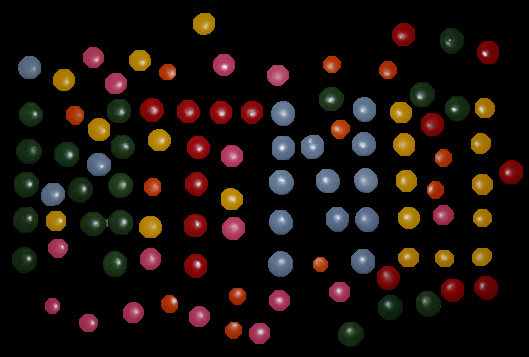
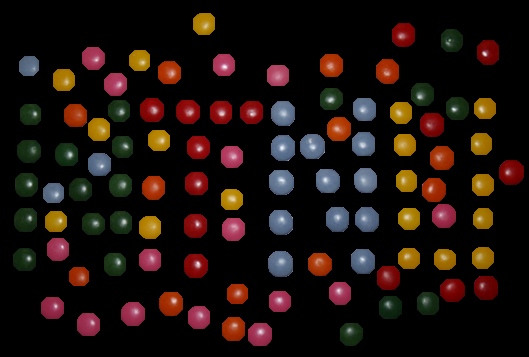
preprocessing finished. Todo: finish hough circle detection.

diff --git a/matlab/separateColors.m b/matlab/separateColors.m
@@ -7,6 +7,8 @@ redImg      = img(:, :, 1);
 greenImg    = img(:, :, 2);
 blueImg     = img(:, :, 3);
 
+[redImg, greenImg, blueImg] = normalizeColorValues(redImg,greenImg,blueImg);
+
 only_red = redImg - greenImg.*4;
 
 only_green = greenImg;
@@ -25,12 +27,23 @@ only_blue = only_blue - redImg;
 [max_blue, ~] = max(only_blue(:));
 only_blue = only_blue.*(1/max_blue);
 
+only_green = only_green > -0.4;
+only_blue = only_blue > -0.6;
+only_red = only_red > 0.42;
+
+ %only_blue   = medianFilter(only_blue, 4);
+ only_red    = medianFilter(only_red, 4);
+ only_green  = medianFilter(only_green, 4);
+
 only_yellow = redImg - blueImg;
 [max_yellow, ~] = max(only_yellow(:));
 only_yellow = only_yellow.*(1/max_yellow);
 only_yellow = only_yellow + greenImg;
 [max_yellow, ~] = max(only_yellow(:));
 only_yellow = only_yellow.*(1/max_yellow);
+
+only_yellow = only_yellow > 0.9;
+
 
 only_pink = redImg - greenImg;
 [max_pink, ~] = max(only_pink(:));
@@ -39,11 +52,9 @@ only_pink = only_pink + blueImg;
 [max_pink, ~] = max(only_pink(:));
 only_pink = only_pink.*(1/max_pink);
 
-only_green = only_green > 0.1;
-only_blue = only_blue > 0.18;
-only_red = only_red > 0.1;
-only_yellow = only_yellow > 0.8;
+
 only_pink = only_pink > 0.8;
+only_pink   = medianFilter(only_pink, 10);
 
 only_orange = redImg - blueImg;
 only_orange = only_orange - only_green;
@@ -52,13 +63,11 @@ only_orange = only_orange - only_yellow;
 only_orange = only_orange - only_red;
 only_orange = only_orange - only_pink;
 
-only_orange = only_orange > 0.54;
+only_orange = only_orange > 0.45;
 
-only_blue   = medianFilter(only_blue, 8);
-only_red    = medianFilter(only_red, 6);
-only_green  = medianFilter(only_green, 4);
-only_orange = medianFilter(only_orange, 14);
-only_pink   = medianFilter(only_pink, 10);
+
+only_orange = medianFilter(only_orange, 8);
+%only_yellow = medianFilter(only_yellow, 14);
 
 % weird
 
@@ -69,15 +78,17 @@ only_yellow = imfill(only_yellow,'holes');
 only_pink = imfill(only_pink,'holes');
 only_orange = imfill(only_orange,'holes');
 
-only_blue = only_blue & ~only_pink;
-only_pink = only_pink & ~only_red;
-
-only_red = openAndClose(only_red);
-only_green = openAndClose(only_green);
-only_blue = openAndClose(only_blue);
-only_yellow = openAndClose(only_yellow);
-only_pink = openAndClose(only_pink);
-only_orange = openAndClose(only_orange);
+ only_blue = only_blue & ~only_pink;
+ only_pink = only_pink & ~only_red;
+ only_green = only_green & ~only_yellow;
+ 
+ 
+ only_red = openAndClose(only_red);
+ only_green = openAndClose(only_green);
+ only_blue = openAndClose(only_blue);
+ only_yellow = openAndClose(only_yellow);
+ only_pink = openAndClose(only_pink);
+ only_orange = openAndClose(only_orange);
 
 
 

diff --git a/matlab/openAndClose.m b/matlab/openAndClose.m
@@ -1,6 +1,6 @@
 function J = openAndClose(I)
     % Closing and opening filters, to remove some 
     I = imclose(I,strel('disk',1));
-    I = imopen(I,strel('disk',8));
-    I = imopen(I,strel('disk',8));
+    I = imopen(I,strel('disk',10));
+    I = imopen(I,strel('disk',10));
     J = imclose(I,strel('disk',1));

diff --git a/matlab/movingAverage.m b/matlab/movingAverage.m
@@ -1,4 +1,4 @@
 % returns the moving average
 
 function J = movingAverage(I)
-J = conv2(I, ones(3)/9, 'same');
+J = conv2(I, ones(5)/12, 'same');
